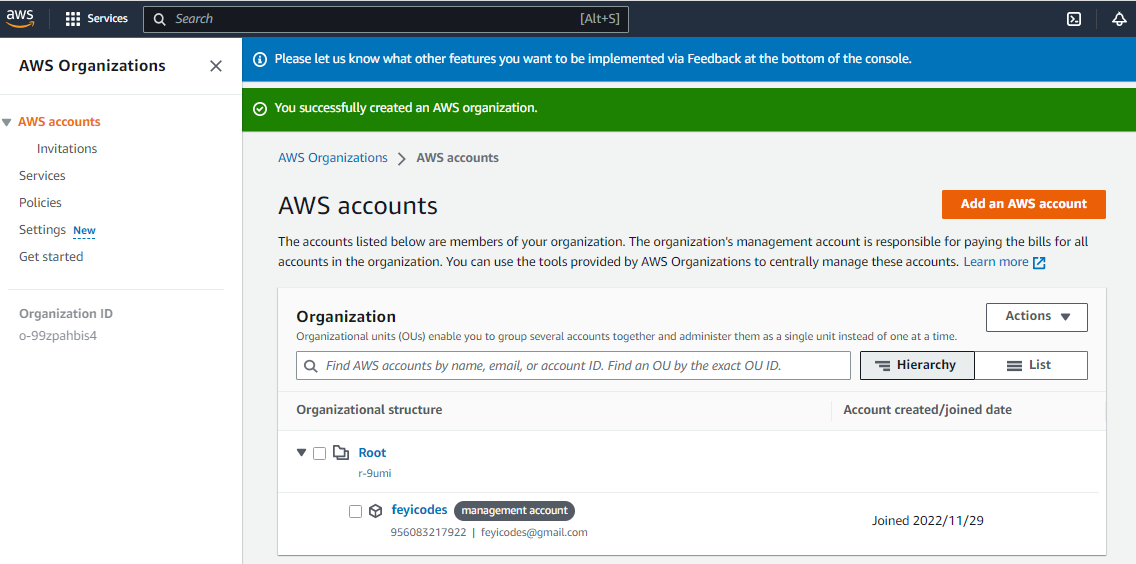
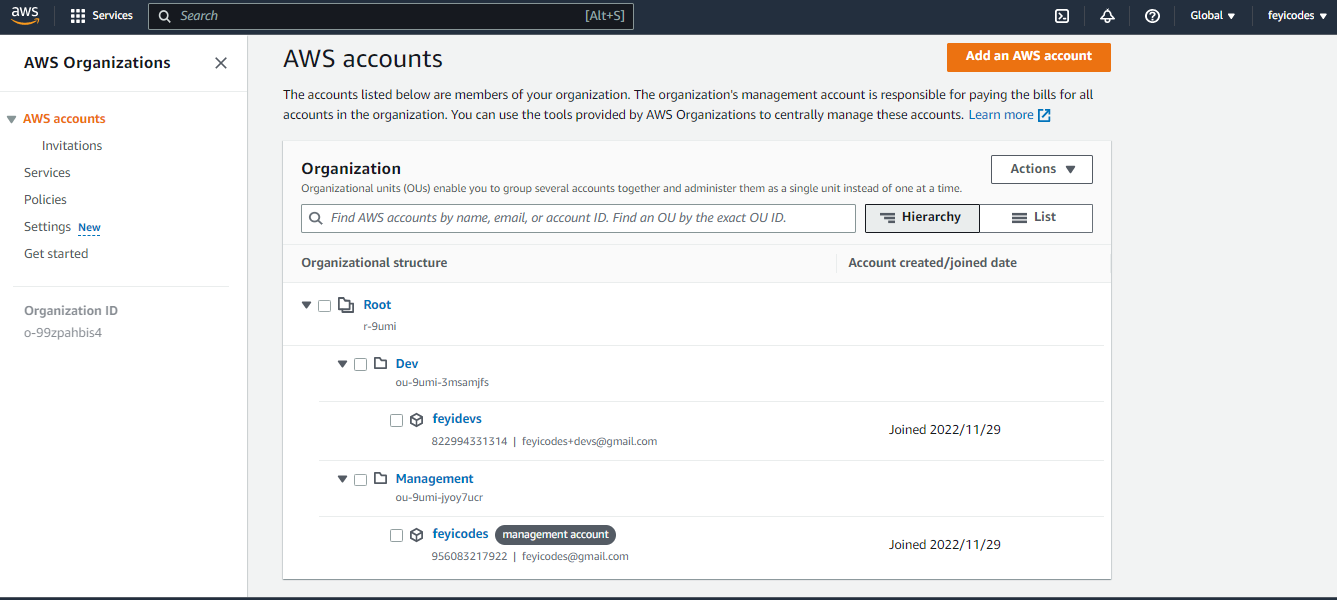
updates

diff --git a/project15.md b/project15.md
@@ -1,0 +1,39 @@
+## Implementing AWS Cloud Solution For 2 Company Websites Using Reverse Proxy Technology
+
+This projects expands the knowledge scope cloud exploration by looking at some concepts and tools available on AWS and other cloud providers. The project strenghtens my knowledge in the manual solutions to Clouod architecture, making the automation process more seamless. 
+The project is based on a cloud architecture design that provides resilience to server failures, flexibility in managing traffic and cost effective.
+
+![](images/img13.png)
+
+I created a sub-account within my root account and an organizational unit named **Dev**. I added the sub account to the Dev organizational unit.
+
+![](images/img2.png)
+
+I created a hosted zone in AWS and mapped it to my registered domain **askogun.com**.
+
+![](images/img2.png)
+
+ I created a Virual Private Cloud with the appropriate subnet sufficient to cater for all instances that would be launched within. I created subnets as shown in the architecture and 2 different route tables associated with public subnet and private subnet. I created an internet gateway and edited aroute in the public route table, associating it with the internet gateway. 
+
+ I created 3 elastic IPs, assigned one to the Nat Gateway and the other are to be assigned to Bastion host. I created 5 security groups catering for various infrastructure categories:
+ * Nginx Servers
+ * Bastion Servers
+ * Application Load Balancer
+ * Web servers
+ * Data Layer.
+
+ Based on the architecture, I would need to setup and configure the following resources in the VPC:
+ EC2 INstances, Launch Templates, Target Groups, Autoscaling Groups, TLS Certificates and Application Load Balancers.
+
+ I created an instance each of the Webserver, Nginx Server and Bastion Host server and carried out the necessary comfigurations to make it a suitable template for the architecture. 
+
+
+
+
+
+
+
+
+
+
+
